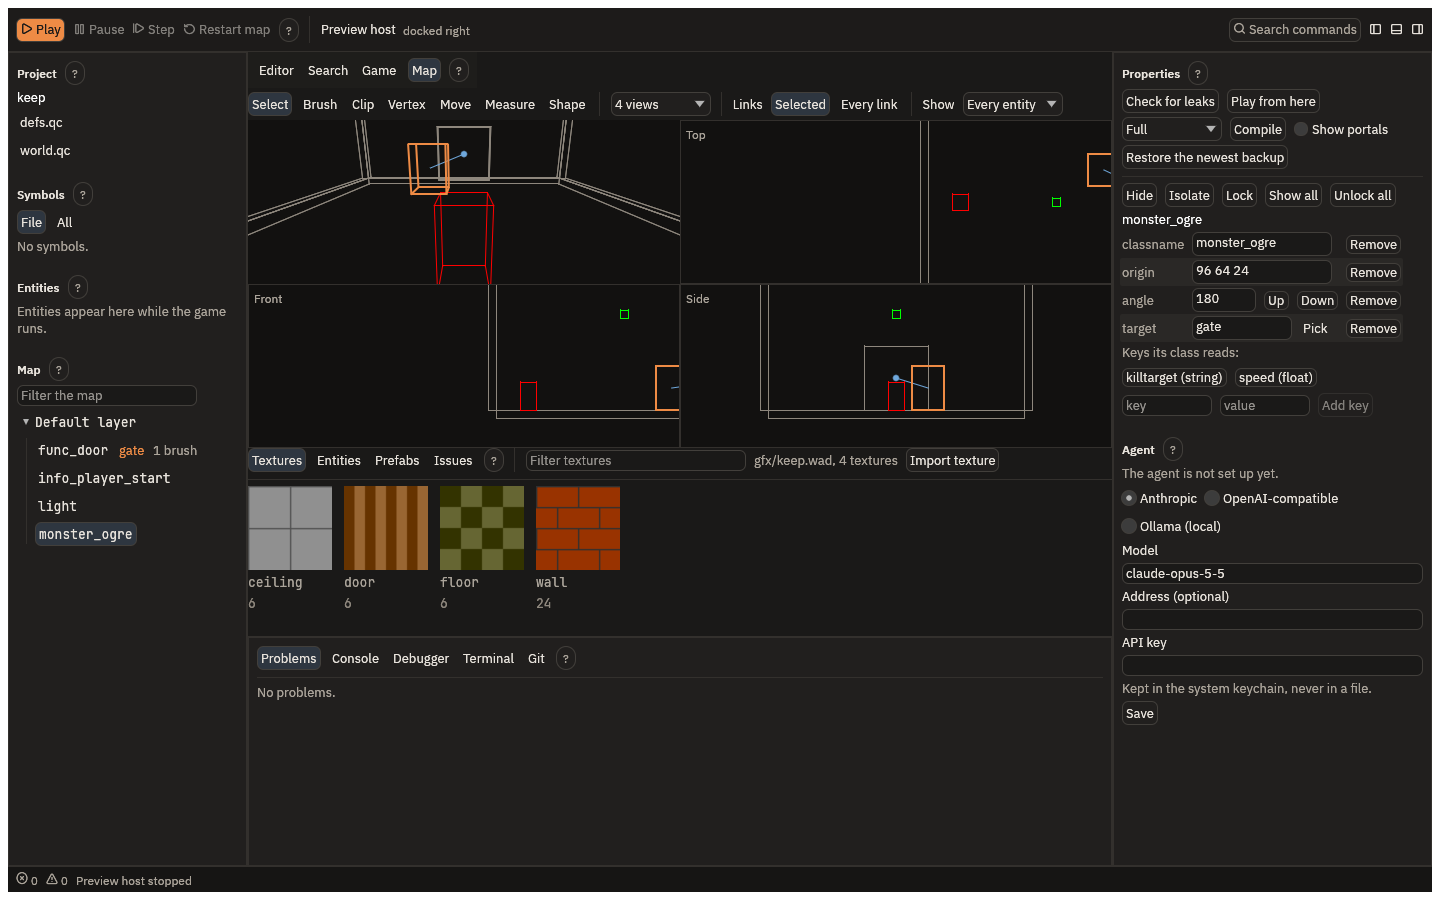
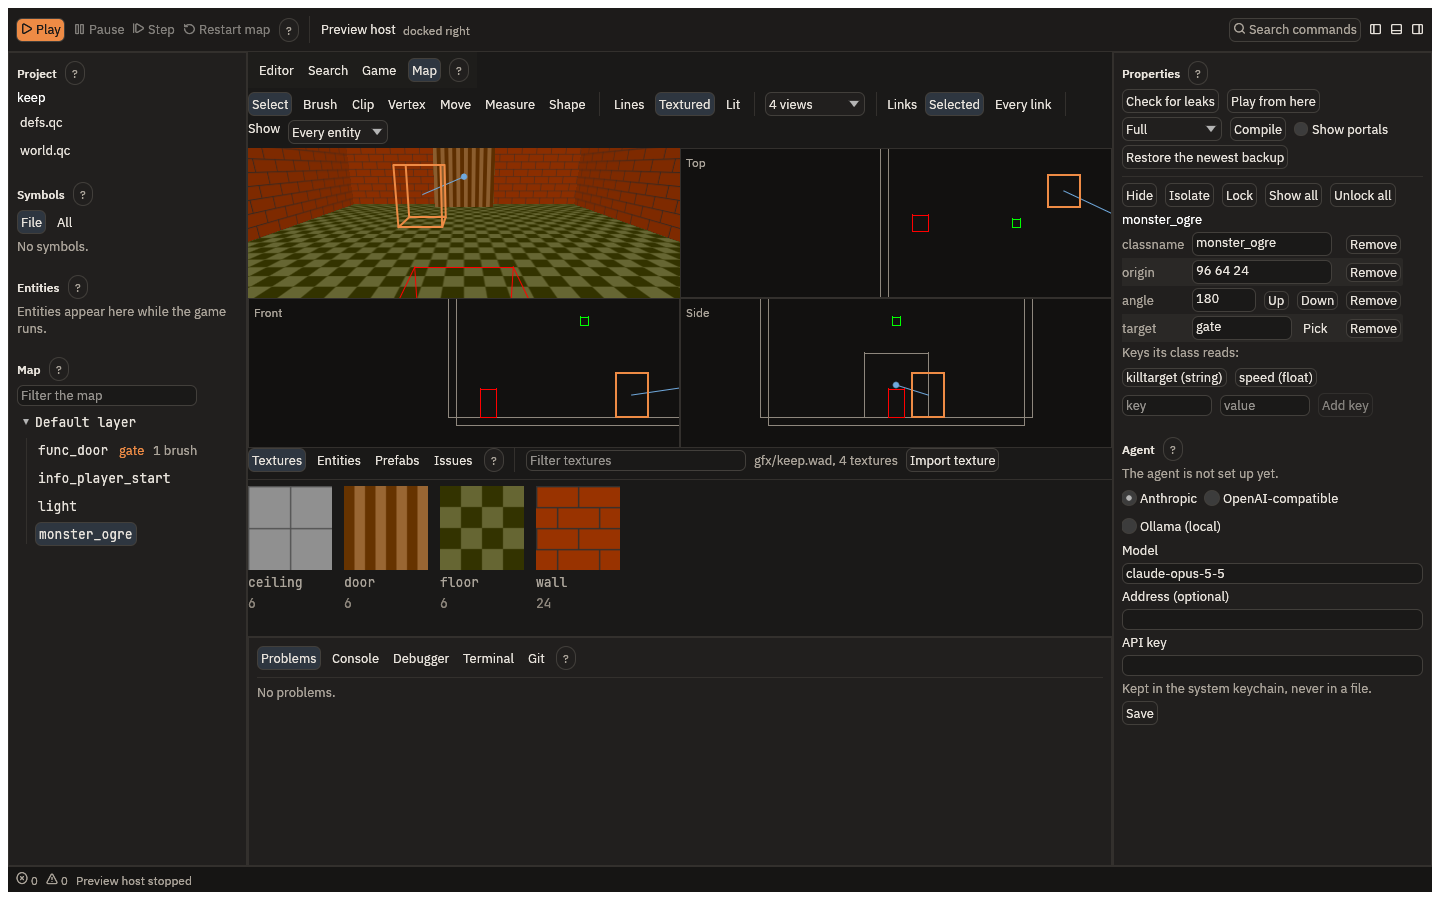
feat: add a showcase of the lit, textured and code views
The landing page shows the editor itself on LibreQuake's lq_e1m1: the
lit view from its own compile, a light's reach, the textured view and
QuakeC with its diagnostics. The guide's screenshots are refreshed with
the textured 3D view.

diff --git a/public/index.html b/public/index.html
@@ -282,6 +282,45 @@
       <figcaption class="shot__caption"><span class="badge">concept</span> A mockup of the design, not a screenshot. In v1 the game runs in its own window, docked beside the editor.</figcaption>
     </figure>
 
+    <section class="showcase" aria-labelledby="showcase-title">
+      <h2 id="showcase-title" class="section-title">In the editor today</h2>
+      <p class="showcase__lede">Screenshots of QuakeC Studio itself, rendered from LibreQuake's
+        <code>lq_e1m1</code> and its QuakeC. Nothing here is a mockup.</p>
+      <div class="showcase__grid">
+        <figure class="showcase__shot showcase__shot--wide">
+          <img src="/assets/shots/showcase-lit-wide.jpg" width="1440" height="900" loading="lazy"
+               alt="The map editor's 3D view of a room in lq_e1m1 lit by its compiled lightmaps: blue ceiling lights over yellow slime and a raised lava pool, riveted walls and a bank of glowing consoles.">
+          <figcaption><strong>Lit as the game lights it.</strong> Compile with QuakeC Studio's own
+            qbsp, vis and light, and the 3D view shows the map with its lightmaps and coloured light,
+            as QuakeSpasm draws them, while you keep editing.</figcaption>
+        </figure>
+        <figure class="showcase__shot">
+          <img src="/assets/shots/showcase-light-reach.jpg" width="1440" height="900" loading="lazy"
+               alt="The same room with a green light selected over the slime: a green sphere shows how far it reaches, and the Properties panel lists its keys, light 200 and _color 143 240 164 with a colour swatch.">
+          <figcaption><strong>See a light's reach.</strong> Select a light and a sphere in its own
+            colour shows how far it lights, beside its keys and a swatch of its colour.</figcaption>
+        </figure>
+        <figure class="showcase__shot">
+          <img src="/assets/shots/showcase-textured.jpg" width="1440" height="900" loading="lazy"
+               alt="The same room drawn textured, before any compile: each brush face with its LibreQuake texture, the slime, the lava pool, riveted walls and the consoles, shaded by the way each face points.">
+          <figcaption><strong>Textured as you build.</strong> Every brush face with its WAD texture
+            and alignment, shaded by the way it faces, updated with each edit.</figcaption>
+        </figure>
+        <figure class="showcase__shot showcase__shot--wide">
+          <img src="/assets/shots/showcase-code.jpg" width="1440" height="900" loading="lazy"
+               alt="The code editor showing W_FireRocket in LibreQuake's weapons.qc, coloured by what each name is, with parameter names shown inline and 17 compiler warnings listed in Problems.">
+          <figcaption><strong>Your QuakeC, checked as you type.</strong> The mod's own code in the same
+            window as its maps, coloured by meaning, with the compiler's warnings, such as a builtin
+            vanilla Quake lacks. Then Play from here: the map compiled and the game started where
+            the camera stands.</figcaption>
+        </figure>
+      </div>
+      <p class="showcase__note">A lit view of the compiled map, a light's reach, QuakeC editing with
+        the compiler's diagnostics, and Play from here are none of them in TrenchBroom's manual.
+        Maps and textures: <a href="https://github.com/lavenderdotpet/LibreQuake">LibreQuake</a>,
+        BSD-3-Clause.</p>
+    </section>
+
     <section class="features" aria-labelledby="features-title">
       <h2 id="features-title" class="section-title">Planned features</h2>
       <ul class="cards">

diff --git a/public/assets/css/style.css b/public/assets/css/style.css
@@ -255,6 +255,32 @@ kbd {
   color: var(--muted);
 }
 
+/* ---------- showcase: screenshots of the app itself ---------- */
+.showcase { padding-block: clamp(2rem, 6vw, 4rem); }
+.showcase__lede, .showcase__note { max-width: 46rem; color: var(--text); }
+.showcase__note { margin-top: 1.5rem; font-size: .95rem; }
+.showcase__note a { color: var(--ember); }
+.showcase__grid {
+  display: grid;
+  grid-template-columns: repeat(2, minmax(0, 1fr));
+  gap: 1.25rem;
+  margin-top: 1.5rem;
+}
+.showcase__shot { margin: 0; }
+.showcase__shot--wide { grid-column: 1 / -1; }
+.showcase__shot img {
+  display: block;
+  width: 100%;
+  height: auto;
+  border: 1px solid var(--line);
+  box-shadow: 0 12px 40px rgba(0, 0, 0, .5);
+}
+.showcase__shot figcaption { margin-top: .6rem; font-size: .95rem; line-height: 1.5; }
+.showcase__shot figcaption strong { color: var(--gold); }
+@media (max-width: 48rem) {
+  .showcase__grid { grid-template-columns: minmax(0, 1fr); }
+}
+
 /* ---------- product shot: the design mockup, in the app's own theme ---------- */
 /* Mirrors the approved mockups (warm graphite, one ember accent, IBM Plex Sans
    and JetBrains Mono). It sits above the CRT overlay so it reads as the app,
